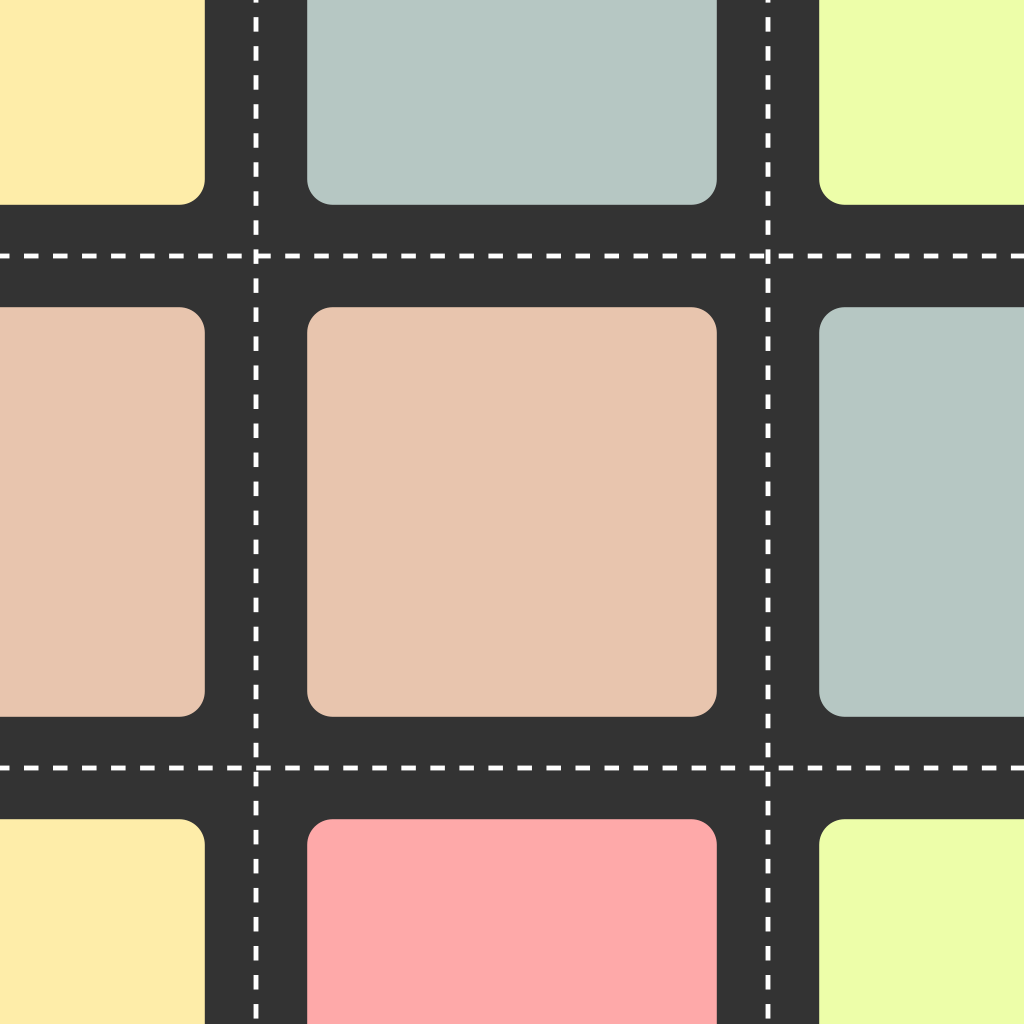
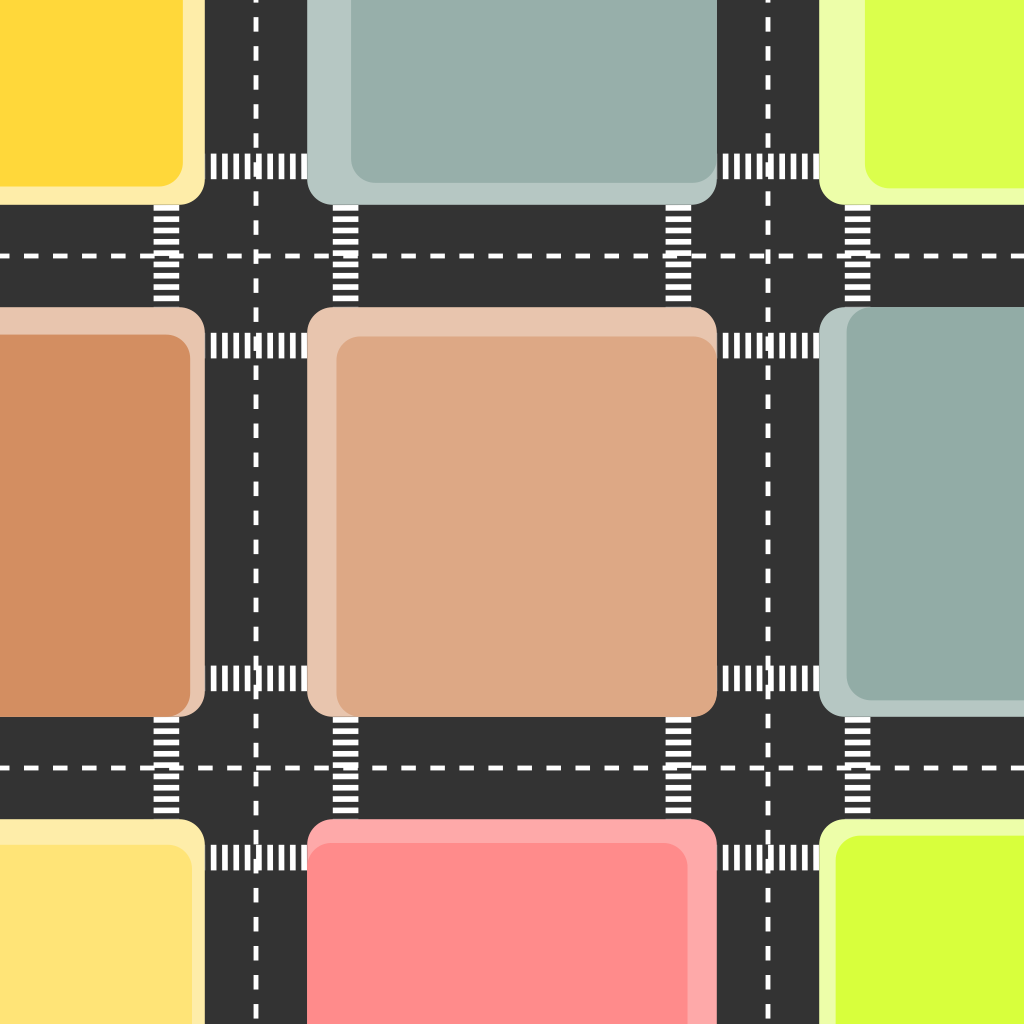
Aesthetical changes to street and HTML

diff --git a/ethics.css b/ethics.css
@@ -1,9 +1,10 @@
 body {
     font-family: 'Lucida Sans', 'Lucida Sans Regular', 'Lucida Grande', 'Lucida Sans Unicode', Geneva, Verdana, sans-serif;
+    background-color: black;
 }
 
 #options_bar {
-    background-color: #F0F0F0;
+    background-color: #308090;
     height: 80px;
 }
 
